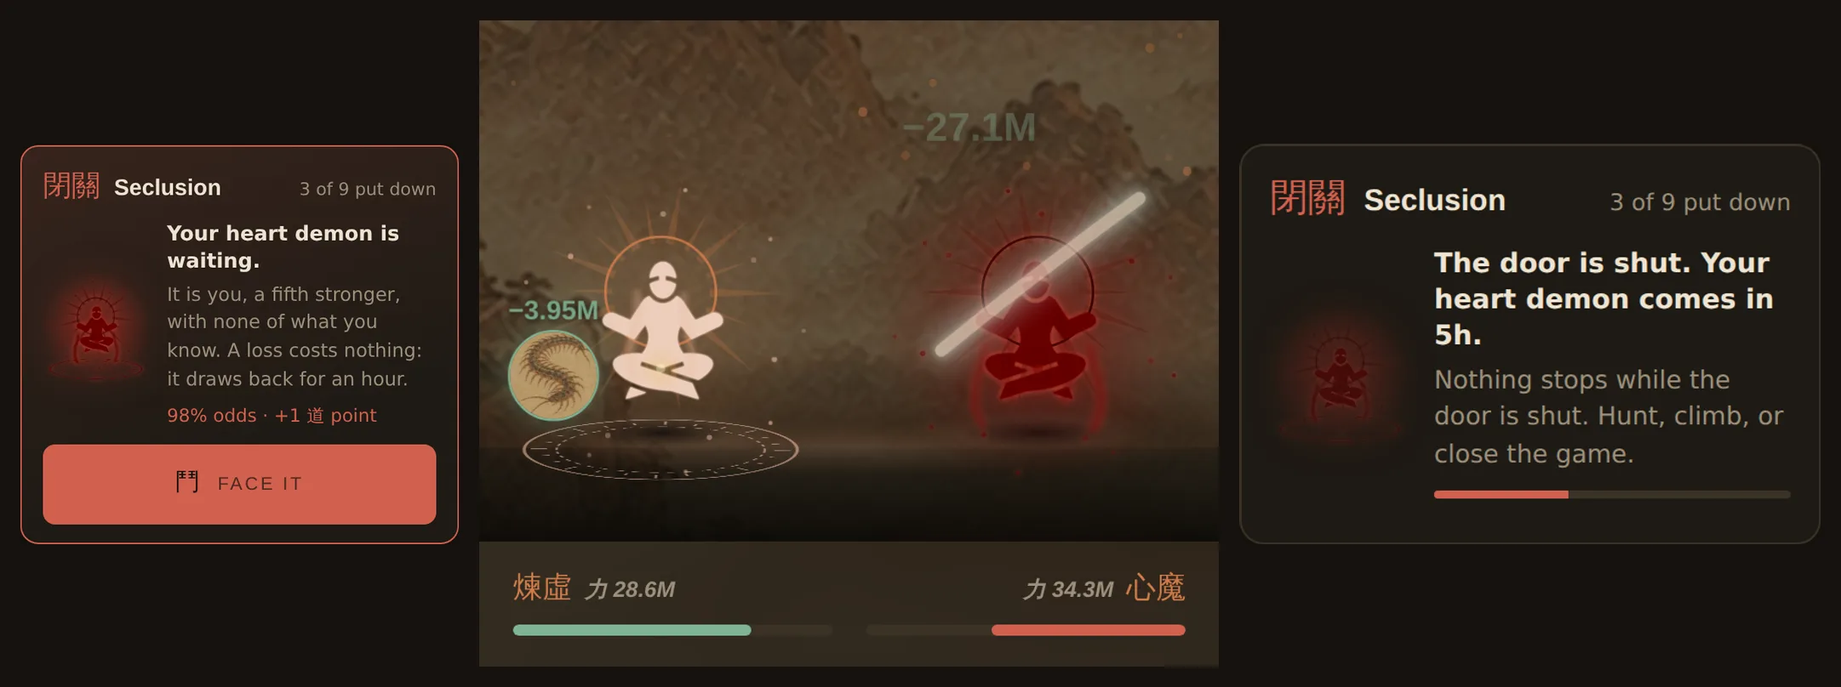
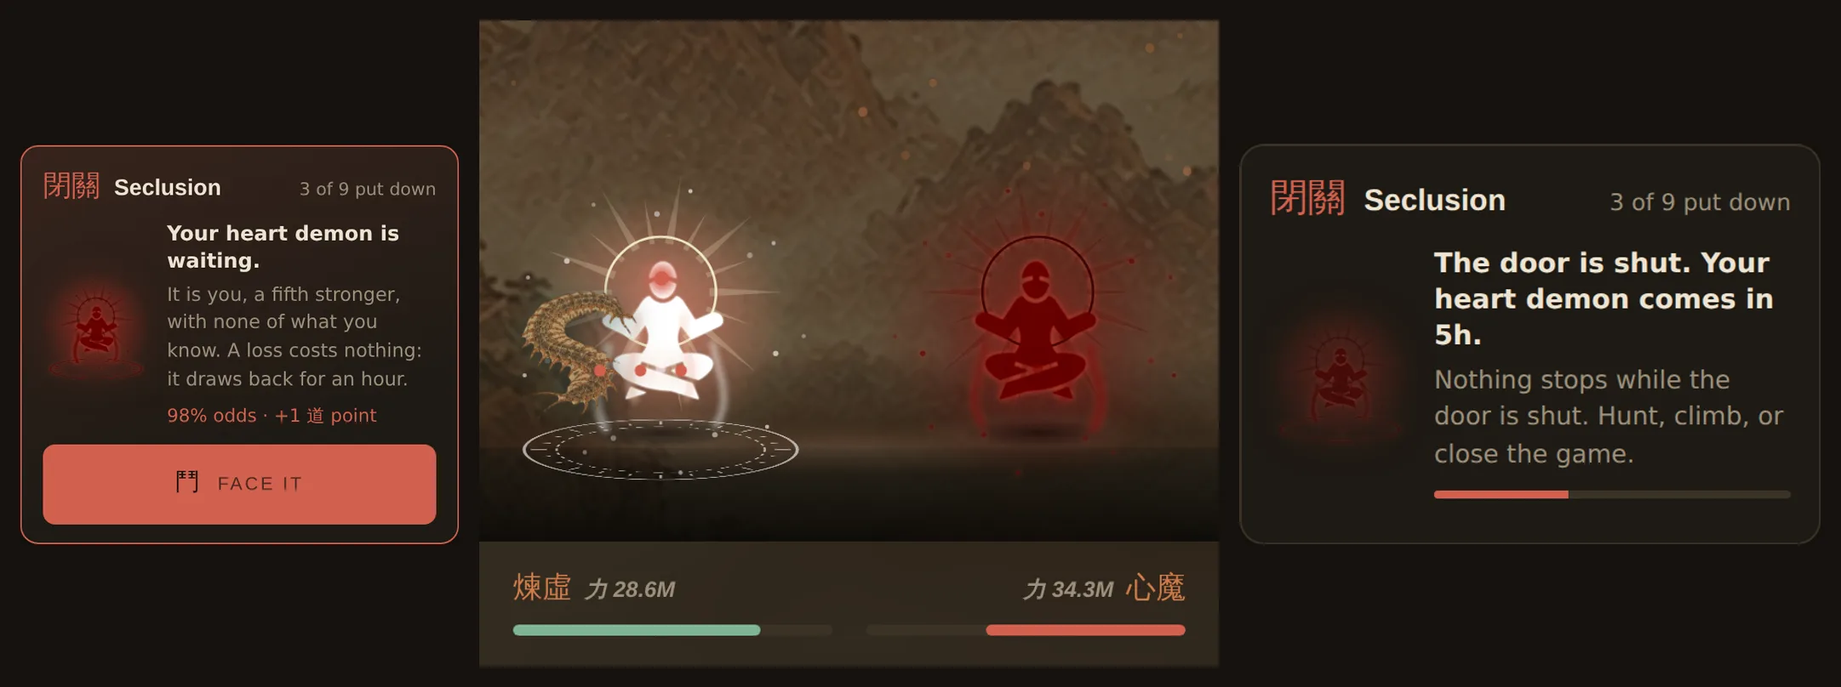
剪 Art coherence: the Dragons cut again, the companion painted, the crossing named
Every cut-out laid side by side on the arena's dark, and every tab walked at
360 on a sixth-realm save.

- The Dragons of the heavens are painted coiled in cloud, and the creature key
  cut them as slabs of paper full of holes; 天九 came back as four scraps.
  slice.ts now cuts them the way the cultivator is cut (paper kept, edge let
  go along the ink) with a wide oval so the cloud dissolves instead of
  stopping. The unicorn's mane too. The torch dragon was clean and stays.
- sheets.ts: heavens-b, a leaf of three asking for the sixth, eighth and
  ninth again with bare paper all round, since no cut can find an edge in a
  panel that is all cloud.
- Arena: the companion stood on a round paper disc, the badge the arena
  stopped using for beasts. It is its own painted cut-out now.
- Arena: beating a Dragon above the summit said "the breakthrough is open".
  It says the crossing is yours.
- Companion card at 320: the button goes under the text, which had been
  squeezed to three words a line.
- Bible: a 剪 section with the before and after; companion and seclusion
  shots retaken.

Claude-Session: https://claude.ai/code/session_01AMHKBrurHARqGfuWpT85XW

diff --git a/tools/slice.ts b/tools/slice.ts
@@ -263,7 +263,7 @@ function inkBox(g: { data: Buffer; w: number; h: number }, box: { left: number; 
  */
 async function bleed(
   file: string, box: { left: number; top: number; width: number; height: number }, out: string,
-  { ghost = false }: { ghost?: boolean } = {},
+  { ghost = false, mist = false }: { ghost?: boolean; mist?: boolean } = {},
 ) {
   const { data, info } = await sharp(file).extract(box).removeAlpha().raw().toBuffer({ resolveWithObject: true });
   const { width: w, height: h, channels: ch } = info;
@@ -430,9 +430,21 @@ async function bleed(
     return t <= 0 ? 0 : t >= 1 ? 1 : t * t * (3 - 2 * t);
   };
 
+  // 霧 A creature painted inside its own cloud fills the panel to the rule, so the ink
+  // reaches every edge and the cut is the panel: a slab of paper with a dragon in it.
+  // With `mist` the cloud is let go instead, on an oval fitted to the painting: whole in
+  // the middle, gone well before the corners, with nothing like a rim anywhere on it.
+  const cx = crop.left + crop.width / 2, cy = crop.top + crop.height / 2;
+  const oval = (x: number, y: number) => {
+    if (!mist) return 1;
+    const d = Math.hypot((x - cx) / (crop.width / 2), (y - cy) / (crop.height / 2));
+    const t = (1.3 - d) / (1.3 - 0.72);
+    return t <= 0 ? 0 : t >= 1 ? 1 : t * t * (3 - 2 * t);
+  };
+
   const rgba = Buffer.alloc(w * h * 4);
   for (let i = 0, j = 0; j < w * h; i += ch, j++) {
-    alpha[j] = Math.round(alpha[j] * border(j % w, Math.floor(j / w)));
+    alpha[j] = Math.round(alpha[j] * border(j % w, Math.floor(j / w)) * oval(j % w, Math.floor(j / w)));
     // 方 Squared, because the fringe has to lose light faster than it loses opacity.
     // Straight alpha left a pale band of bare paper a dozen pixels wide all round her,
     // which against the dark ground is an outer glow: the coin again, with a soft edge.
@@ -684,6 +696,20 @@ function disc(square: Buffer, side: number) {
   ]);
 }
 
+/**
+ * 空 The Dragons painted with open paper round them, a wing span or a standing figure,
+ * which the ink alone cuts cleanly. Every other one is coiled in its own cloud.
+ */
+const OPEN_SKY = new Set(['heaven-5', 'heaven-7']);
+/** 燭 The torch dragon is painted dark and gold on bare paper, and the creature key cuts it clean. */
+const INKED = new Set(['heaven-6']);
+/**
+ * 雲 A common painted the same way, filling the panel with its mane, whose
+ * creature key came back as a slab of paper the shape of the panel. Found by laying all
+ * forty-five cut-outs side by side on the stage's own dark.
+ */
+const CLOUDED = new Set(['unicorn']);
+
 async function cut(sheet: Sheet, file: string) {
   const g = await grey(file);
   const px = profile(g, 'x');
@@ -714,7 +740,23 @@ async function cut(sheet: Sheet, file: string) {
 
     if (sheet.kind === 'beast') {
       mkdirSync('public/art/cut', { recursive: true });
-      await cutout(file, box, `public/art/cut/${c.key}.webp`);
+      // 雲 The Dragons of the heavens are painted coiled in cloud, and the cloud is paper
+      // with a few lines on it. The creature key reads the cloud as creature wherever it is
+      // closed and as paper wherever it is not, so the first cut came back as a round slab
+      // of paper with holes in it, and 天九, half bare paper on purpose, as four scraps.
+      // They are cut the way the cultivator is instead: the paper kept, the edge let go
+      // along the ink, and the ninth held together by the ghost of its own strokes. The
+      // ones coiled in cloud are let go on an oval as well (see `mist`).
+      // 又 The Dragons painted again to be cut have bare paper round them, so they are
+      // cut the same way with nothing to let go but the ink's own edge.
+      if (sheet.key === 'heavens-b') {
+        await bleed(file, box, `public/art/cut/${c.key}.webp`);
+      } else if ((sheet.key === 'heavens' && !INKED.has(c.key)) || CLOUDED.has(c.key)) {
+        await bleed(file, box, `public/art/cut/${c.key}.webp`,
+          { ghost: c.key === 'heaven-9', mist: !OPEN_SKY.has(c.key) });
+      } else {
+        await cutout(file, box, `public/art/cut/${c.key}.webp`);
+      }
     }
 
     // 修 The cultivator is only ever wanted with the paper off: he stands inside an aura

diff --git a/sheets.html b/sheets.html
@@ -91,7 +91,9 @@
         <td>10 panels</td><td>4 by 3</td>
         <td><code>ink-sheets/meetings-c.png</code></td></tr><tr><td><b class="cjk">境外</b> The nine Dragons of the heavens</td>
         <td>9 panels</td><td>3 by 3</td>
-        <td><code>ink-sheets/heavens.png</code></td></tr><tr><td><b class="cjk">天</b> The nine heavens, as places</td>
+        <td><code>ink-sheets/heavens.png</code></td></tr><tr><td><b class="cjk">境外又</b> Three Dragons of the heavens, painted again to be cut</td>
+        <td>3 panels</td><td>3 by 1</td>
+        <td><code>ink-sheets/heavens-b.png</code></td></tr><tr><td><b class="cjk">天</b> The nine heavens, as places</td>
         <td>9 panels</td><td>3 by 3</td>
         <td><code>ink-sheets/skies.png</code></td></tr><tr><td><b class="cjk">訣</b> The nine arts</td>
         <td>9 panels</td><td>3 by 3</td>
@@ -637,6 +639,43 @@ hundred years ago. No text, no letters and no characters anywhere.
 
 Again, and this matters more than anything else in this prompt: 9
 panels, 3 across and 3 down, thin ink rules between them, the same paper
+in every panel, and no letters or characters anywhere on the page.</pre>
+  </section><section class="sec">
+    <h2><span class="h cjk">境外又</span> Three Dragons of the heavens, painted again to be cut</h2>
+    <p class="t">3 panels, 3 across and 1 down. Saved as
+      <code>ink-sheets/heavens-b.png</code>.</p>
+    <div class="shgrid" style="grid-template-columns:repeat(3,1fr)">
+  <div class="shcell"><b>1</b><span class="cjk">燭龍</span>
+      <i>Torch Dragon</i><code>beast/heaven-6.webp</code></div><div class="shcell"><b>2</b><span class="cjk">混沌</span>
+      <i>Chaos</i><code>beast/heaven-8.webp</code></div><div class="shcell"><b>3</b><span class="cjk">鴻蒙</span>
+      <i>The Uncarved</i><code>beast/heaven-9.webp</code></div>
+</div>
+    <h3>詞 The prompt</h3>
+    <pre>One single square image: a page from an old Chinese bestiary album, ruled
+into a grid of 3 columns by 1 row, 3 panels in all.
+
+Draw the grid: thin dry ink rules, edge to edge, dividing the page into
+3 equal rectangular panels with a narrow margin of bare paper
+around the outside. Every panel has exactly the same aged paper ground as
+every other one. Each panel holds one creature, centred, facing the viewer, the whole of it drawn, with a clear margin of bare paper between it and the rule on every side. No cloud, mist or smoke fills the panel: the paper around the creature is empty. Nothing crosses a rule: no tail, no wing and no
+mist leaves the panel it belongs to.
+
+The panels, in reading order:
+
+  Row 1, panel 1: a torch dragon whose open eyes are daylight, a lantern glowing in its throat, its whole coiled body inside the panel with bare paper all round it. Its one pigment is gold leaf.
+  Row 1, panel 2: primordial chaos: one vast coiled body with no face and no need of one, a single knot of scales drawn whole in the middle of the panel with bare paper all round it, and no cloud around it at all. Its one pigment is bone white.
+  Row 1, panel 3: the uncarved block: a long pale dragon barely finished, its whole outline drawn in firm dark ink so that its shape is clear, the inside left almost as pale as the paper, bare paper all round it. Its one pigment is soot black ink for every outline and shadow, firm and dark, with a wash of bone white inside the shape.
+
+Style: classical Chinese ink painting on aged silk. Wet brush, visible
+strokes, ink bleeding into the fibre, large areas of empty paper. Muted
+mineral pigment only: jade green, gold leaf, cinnabar red, bone white,
+soot black. No neon, no glow, no rim light, no lens flare, no science
+fiction, no cyberpunk. Nothing emits light except a lantern or the moon.
+It should look like a plate from a bestiary somebody believed in six
+hundred years ago. No text, no letters and no characters anywhere.
+
+Again, and this matters more than anything else in this prompt: 3
+panels, 3 across and 1 down, thin ink rules between them, the same paper
 in every panel, and no letters or characters anywhere on the page.</pre>
   </section><section class="sec">
     <h2><span class="h cjk">天</span> The nine heavens, as places</h2>

diff --git a/bible.html b/bible.html
@@ -1179,6 +1179,11 @@
     <td class="n">9</td>
     <td class="n">✓</td>
   </tr><tr>
+    <td><b class="cjk">境外又</b> <i>Three Dragons of the heavens, painted again to be cut</i></td>
+    <td class="n">3×1</td>
+    <td class="n">3</td>
+    <td class="n">✓</td>
+  </tr><tr>
     <td><b class="cjk">天</b> <i>The nine heavens, as places</i></td>
     <td class="n">3×3</td>
     <td class="n">9</td>
@@ -1247,7 +1252,7 @@
     </table>
 
     <h3>剪 The cut</h3>
-    <p class="t">One file arrives and the game needs 188
+    <p class="t">One file arrives and the game needs 191
       of them, so <code>npm run slice</code> cuts the sheet up. The whole difficulty is
       finding the rules, and it took three tries. The first cutter looked for the flattest
       rows of pixels and settled on bare paper eight pixels off the line. The second looked
@@ -4975,7 +4980,7 @@
       with no companion reads no extra die, so every fight they fight is the fight it was.</p>
     <figure class="shots">
       <img src="bible-art/shot/companion.webp" alt="The companion card on the hunt, open, and the companion striking beside the cultivator in the arena">
-      <figcaption>The real game. Left, on 狩 the hunt at 320: who fights beside you, and what each beast you could bond instead would strike for. Right, in the arena: the companion leaps on its own strike, and what it dealt rises over it.</figcaption>
+      <figcaption>The real game. Left, on 狩 the hunt at 320: who fights beside you, and what each beast you could bond instead would strike for. Right, in the arena: the companion stands at her side as its own painted cut-out, leaps on its strike, and what it dealt rises over it.</figcaption>
     </figure>
   </section>
 
@@ -5012,6 +5017,30 @@
       <img src="bible-art/shot/seclusion.webp" alt="The seclusion card with a demon waiting, the fight against the darkened self in the arena, and the card counting down behind a shut door">
       <figcaption>The real game. Left, on 修 at 320: the demon is waiting, with the odds and what it pays. Middle, in the arena: the cultivator and the companion against their own shape in crimson. Right: the door shut, five hours to go.</figcaption>
     </figure>
+  </section>
+
+  <section class="sec" id="recut">
+    <h2><span class="h">剪</span> The Dragons, cut again</h2>
+    <p class="t">Asked whether the art holds together everywhere, every cut-out in the game was
+      laid side by side on the arena's own dark. Most stand as they should. Eight did not.
+      The Dragons of the heavens are painted coiled in their own cloud, and a cloud painted on
+      paper is paper with a few lines on it. The creature key came back with a slab of paper
+      full of holes, and 天九, painted half bare on purpose, as four scraps.</p>
+    <p class="t">They are cut now the way the cultivator is: the paper kept, the edge let go
+      along the ink, and the cloud dissolving on a wide oval rather than stopping at a line. The
+      unicorn's mane went the same way. The torch dragon was already clean and is left as it
+      was. Top row before, bottom row after.</p>
+    <figure class="shots">
+      <img src="bible-art/shot/dragons-recut.webp" alt="Nine cut-outs before and after: slabs of paper with holes above, clouds dissolving into the dark below">
+      <figcaption>The eighth and ninth are better and still not right: one is a square of cloud
+        and the other is mostly paper, because that is what was painted. A leaf of three
+        (heavens-b in <code>npm run sheets</code>) asks for the sixth, eighth and ninth again,
+        whole and outlined with bare paper all round, so the cutter has an edge to find.</figcaption>
+    </figure>
+    <p class="t">Two smaller things came out of the same look. The companion stood at her side
+      on a round paper disc, the badge the arena stopped using for beasts; it is its own
+      painted cut-out now. And beating a Dragon above the summit said "the breakthrough is
+      open", the warden's line; it says the crossing is yours.</p>
   </section>
 
   <section class="sec" id="record">

diff --git a/tools/sheets.ts b/tools/sheets.ts
@@ -309,6 +309,38 @@ function heavenSheet(): Sheet {
 }
 
 /**
+ * 境外 Three of the Dragons again, painted to be cut.
+ *
+ * 雲 The first leaf coiled the sixth, eighth and ninth in cloud to the rule, and a cloud
+ * painted on paper is paper with a few lines on it: no key can find where the Dragon
+ * ends. The eighth came back as a square slab of cloud and the ninth, which was asked
+ * for "half of it left as bare paper", as four scraps. So these three are asked for the
+ * other way round: the whole creature, firmly outlined, with bare paper all round it and
+ * no cloud reaching the rule. The ninth keeps its pallor in the wash, not in the line.
+ */
+const HEAVEN_AGAIN: readonly [number, string][] = [
+  [6, 'a torch dragon whose open eyes are daylight, a lantern glowing in its throat, its whole coiled body inside the panel with bare paper all round it'],
+  [8, 'primordial chaos: one vast coiled body with no face and no need of one, a single knot of scales drawn whole in the middle of the panel with bare paper all round it, and no cloud around it at all'],
+  [9, 'the uncarved block: a long pale dragon barely finished, its whole outline drawn in firm dark ink so that its shape is clear, the inside left almost as pale as the paper, bare paper all round it'],
+];
+
+function heavenAgainSheet(): Sheet {
+  return {
+    key: 'heavens-b',
+    han: '境外又',
+    title: 'Three Dragons of the heavens, painted again to be cut',
+    kind: 'beast',
+    cols: 3,
+    rows: 1,
+    realms: [9],
+    cells: HEAVEN_AGAIN.map(([n, subject]) => {
+      const h = HEAVENS[n - 1];
+      return { key: `heaven-${n}`, han: h.dragon.han, name: h.dragon.name, subject };
+    }),
+  };
+}
+
+/**
  * 境外 The nine heavens as places.
  *
  * 棄 They had a slot and no screen: nine backdrops declared in 畫 the picture list that
@@ -524,6 +556,7 @@ export const SHEETS: readonly Sheet[] = [
   ...WHO.map(([key, han, title, who]) => ninthSheet(key, han, title, who)),
   ...meetSheets(),
   heavenSheet(),
+  heavenAgainSheet(),
   skySheet(),
   ...EMBLEM_SHEETS.map(emblemSheet),
   commonSheet('beasts-a', '獸甲', 'The commons of the first three realms', [1, 2, 3]),
@@ -576,6 +609,8 @@ export function sheetPrompt(s: Sheet): string {
     ? 'Each panel holds one object on bare paper, centred, and nothing else: no scene, no ground, no background. These are shown very small, so each one is a single thing drawn in as few strokes as it takes, the way a brush would put an emblem on a page.'
     : s.kind === 'meet'
     ? 'Each panel holds one small scene, wider than it is tall, seen from a few paces away with plenty of bare paper around it. No frame inside the panel, nothing behind the subject but the road, the ground or the mist it is standing in.'
+    : s.key === 'heavens-b'
+    ? 'Each panel holds one creature, centred, facing the viewer, the whole of it drawn, with a clear margin of bare paper between it and the rule on every side. No cloud, mist or smoke fills the panel: the paper around the creature is empty.'
     : s.kind === 'beast'
     ? 'Each panel holds one creature, centred, facing the viewer, head and body, filling most of its own panel.'
     : s.kind === 'self' && s.cells.length === 1
@@ -592,6 +627,7 @@ export function sheetPrompt(s: Sheet): string {
       // 境外 A heaven card is painted in its heaven's pigment, one heaven to a row.
       const heavenRow = HEAVEN_CARD_SHEETS[s.key];
       const pig = s.key === 'heavens' || s.key === 'skies' ? HEAVEN_PIGMENT[i]
+        : s.key === 'heavens-b' ? (HEAVEN_AGAIN[i][0] === 9 ? NINTH_HEAVEN_INK : HEAVEN_PIGMENT[HEAVEN_AGAIN[i][0] - 1])
         : s.key === 'awaken-e9' ? NINTH_HEAVEN_INK
         : heavenRow !== undefined ? HEAVEN_PIGMENT[heavenRow + Math.floor(i / s.cols)]
         : inkOf(s.kind === 'meet' ? s.realms[i] : n).stuff;

diff --git a/tools/bible.ts b/tools/bible.ts
@@ -3913,7 +3913,7 @@ const page = `<meta charset="utf-8">
       with no companion reads no extra die, so every fight they fight is the fight it was.</p>
     <figure class="shots">
       <img src="bible-art/shot/companion.webp" alt="The companion card on the hunt, open, and the companion striking beside the cultivator in the arena">
-      <figcaption>The real game. Left, on 狩 the hunt at 320: who fights beside you, and what each beast you could bond instead would strike for. Right, in the arena: the companion leaps on its own strike, and what it dealt rises over it.</figcaption>
+      <figcaption>The real game. Left, on 狩 the hunt at 320: who fights beside you, and what each beast you could bond instead would strike for. Right, in the arena: the companion stands at her side as its own painted cut-out, leaps on its strike, and what it dealt rises over it.</figcaption>
     </figure>
   </section>
 
@@ -3950,6 +3950,30 @@ const page = `<meta charset="utf-8">
       <img src="bible-art/shot/seclusion.webp" alt="The seclusion card with a demon waiting, the fight against the darkened self in the arena, and the card counting down behind a shut door">
       <figcaption>The real game. Left, on 修 at 320: the demon is waiting, with the odds and what it pays. Middle, in the arena: the cultivator and the companion against their own shape in crimson. Right: the door shut, five hours to go.</figcaption>
     </figure>
+  </section>
+
+  <section class="sec" id="recut">
+    <h2><span class="h">剪</span> The Dragons, cut again</h2>
+    <p class="t">Asked whether the art holds together everywhere, every cut-out in the game was
+      laid side by side on the arena's own dark. Most stand as they should. Eight did not.
+      The Dragons of the heavens are painted coiled in their own cloud, and a cloud painted on
+      paper is paper with a few lines on it. The creature key came back with a slab of paper
+      full of holes, and 天九, painted half bare on purpose, as four scraps.</p>
+    <p class="t">They are cut now the way the cultivator is: the paper kept, the edge let go
+      along the ink, and the cloud dissolving on a wide oval rather than stopping at a line. The
+      unicorn's mane went the same way. The torch dragon was already clean and is left as it
+      was. Top row before, bottom row after.</p>
+    <figure class="shots">
+      <img src="bible-art/shot/dragons-recut.webp" alt="Nine cut-outs before and after: slabs of paper with holes above, clouds dissolving into the dark below">
+      <figcaption>The eighth and ninth are better and still not right: one is a square of cloud
+        and the other is mostly paper, because that is what was painted. A leaf of three
+        (heavens-b in <code>npm run sheets</code>) asks for the sixth, eighth and ninth again,
+        whole and outlined with bare paper all round, so the cutter has an edge to find.</figcaption>
+    </figure>
+    <p class="t">Two smaller things came out of the same look. The companion stood at her side
+      on a round paper disc, the badge the arena stopped using for beasts; it is its own
+      painted cut-out now. And beating a Dragon above the summit said "the breakthrough is
+      open", the warden's line; it says the crossing is yours.</p>
   </section>
 
   <section class="sec" id="record">

diff --git a/src/app/theme.css b/src/app/theme.css
@@ -1966,6 +1966,14 @@ nav.tabs button:active:not([data-shut='true']) { transform: scale(.93); }
 .compan em { display: block; font-style: normal; font-size: 13.5px; font-weight: 600; line-height: 1.35; }
 .compan i { display: block; font-style: normal; font-size: 12px; color: var(--faint); line-height: 1.4; margin-top: 2px; }
 .compan .crow > .act { flex: none; width: auto; padding-inline: 14px; margin: 0; }
+/* 窄 At 360 and under, the button beside the text left it a column three words wide and
+   the line about the companion ran to six lines. It goes under the text there, lined up
+   with it rather than with the painting. */
+@media (max-width: 400px) {
+  .compan .crow { flex-wrap: wrap; row-gap: 8px; }
+  .compan .crow > span:not(.plate) { flex-basis: calc(100% - 58px); }
+  .compan .crow > .act { margin-left: 58px; }
+}
 .compan .cpick { display: flex; flex-direction: column; gap: 6px; margin-top: 10px; }
 .compan .cone { display: flex; gap: 10px; align-items: center; text-align: left; font: inherit; color: var(--text);
   background: var(--ground); border: 1px solid var(--line); border-radius: 10px; padding: 7px 10px; cursor: pointer; }
@@ -1978,6 +1986,13 @@ nav.tabs button:active:not([data-shut='true']) { transform: scale(.93); }
 .duel .fighter.you .pet[data-strike='true'] { transform: translate(34%, -18%) scale(1.12); }
 .duel .fighter.you .pet img { display: block; width: 100%; height: 100%; border-radius: 50%; object-fit: cover;
   border: 1.5px solid var(--jade); background: #e9dcc2; }
+/* 剪 The painted cut-out: no disc, no rim, feet on the floor. The box is
+   sized by width and the picture keeps its own shape inside it, as .beastcut does.
+   Painted from the front, like every beast across the arena, so it is not mirrored. */
+.duel .fighter.you .pet:has(.petcut) { width: clamp(52px, 17vw, 78px); height: auto; bottom: 4%; left: -8%;
+  filter: drop-shadow(0 4px 8px rgba(0,0,0,.6)) drop-shadow(0 0 6px rgba(127,180,149,.35)); }
+.duel .fighter.you .pet img.petcut { width: 100%; height: auto; max-height: clamp(48px, 16vw, 76px);
+  object-fit: contain; border: 0; border-radius: 0; background: none; }
 .duel .fighter.you .pdmg { position: absolute; left: 50%; bottom: 100%; transform: translateX(-50%);
   white-space: nowrap; font: 700 13px Rajdhani, sans-serif; color: var(--jade);
   text-shadow: 0 1px 3px rgba(0,0,0,.8); animation: petrise .8s ease-out both; }

diff --git a/src/app/ui/Arena.tsx b/src/app/ui/Arena.tsx
@@ -138,7 +138,8 @@ export function Arena({ battle, state, pulse, onClose, overflow }: {
     ?? pictureOf('realm', String(beast.realm));
   const hit: Striker | null = over ? null : f.striker === 'player' ? 'beast' : 'player';
   const say = over
-    ? (battle.demon ? (outcome.won ? SECLUSION.won : SECLUSION.lost) : verdictLine(outcome.won, !!beast.warden))
+    ? (battle.demon ? (outcome.won ? SECLUSION.won : SECLUSION.lost) : verdictLine(outcome.won, !!beast.warden,
+        realm === 9 && beast.key === 'dragon' && battle.floor === undefined))
     : blowLine(f.striker, f.round);
   /** 心魔 A beast of the world, which is what a kill, a bounty and the week are paid for. */
   const worldly = battle.floor === undefined && !battle.demon;
@@ -195,7 +196,12 @@ export function Arena({ battle, state, pulse, onClose, overflow }: {
             {/* 靈獸 The companion, small at the cultivator's side, leaping on its own strike. */}
             {pet && (
               <span className="pet" data-strike={!over && f.striker === 'player' && f.pet > 0}>
-                {pictureOf('beast', plateOf(pet))
+                {/* 剪 The same cut-out the beast stands in when it is the one being fought,
+                    turned to face the same way she does. A disc here was the badge the
+                    arena stopped using for beasts, back at a quarter of the size. */}
+                {pictureOf('cut', plateOf(pet))
+                  ? <img className="petcut" src={pictureOf('cut', plateOf(pet))!} alt={pet.name} />
+                  : pictureOf('beast', plateOf(pet))
                   ? <img src={pictureOf('beast', plateOf(pet))!} alt={pet.name} />
                   : <Plate kind="beast" subject={plateOf(pet)} icon={pet.icon} colour={realmOf(pet.realm).colour}
                       tier={1} size={40} alt={pet.name} />}

diff --git a/src/app/ui/blows.ts b/src/app/ui/blows.ts
@@ -43,8 +43,11 @@ export function blowLine(striker: 'player' | 'beast', round: number): Blow {
 }
 
 /** The last word, once it is over. */
-export function verdictLine(won: boolean, warden: boolean): Blow {
+export function verdictLine(won: boolean, warden: boolean, tribulation = false): Blow {
   if (!won) return { han: '再來', text: 'Nothing was lost. Come back stronger.' };
+  // 渡劫 Above the summit the Dragon is a warden by its table and nothing opens behind
+  // it: it is a crossing, and the arena was telling the player a breakthrough had opened.
+  if (tribulation) return { han: '渡劫', text: 'The Dragon is down. The crossing is yours.' };
   return warden
     ? { han: '境破', text: 'The warden is down. The breakthrough is open.' }
     : { han: '勝', text: 'It will not rise again.' };
